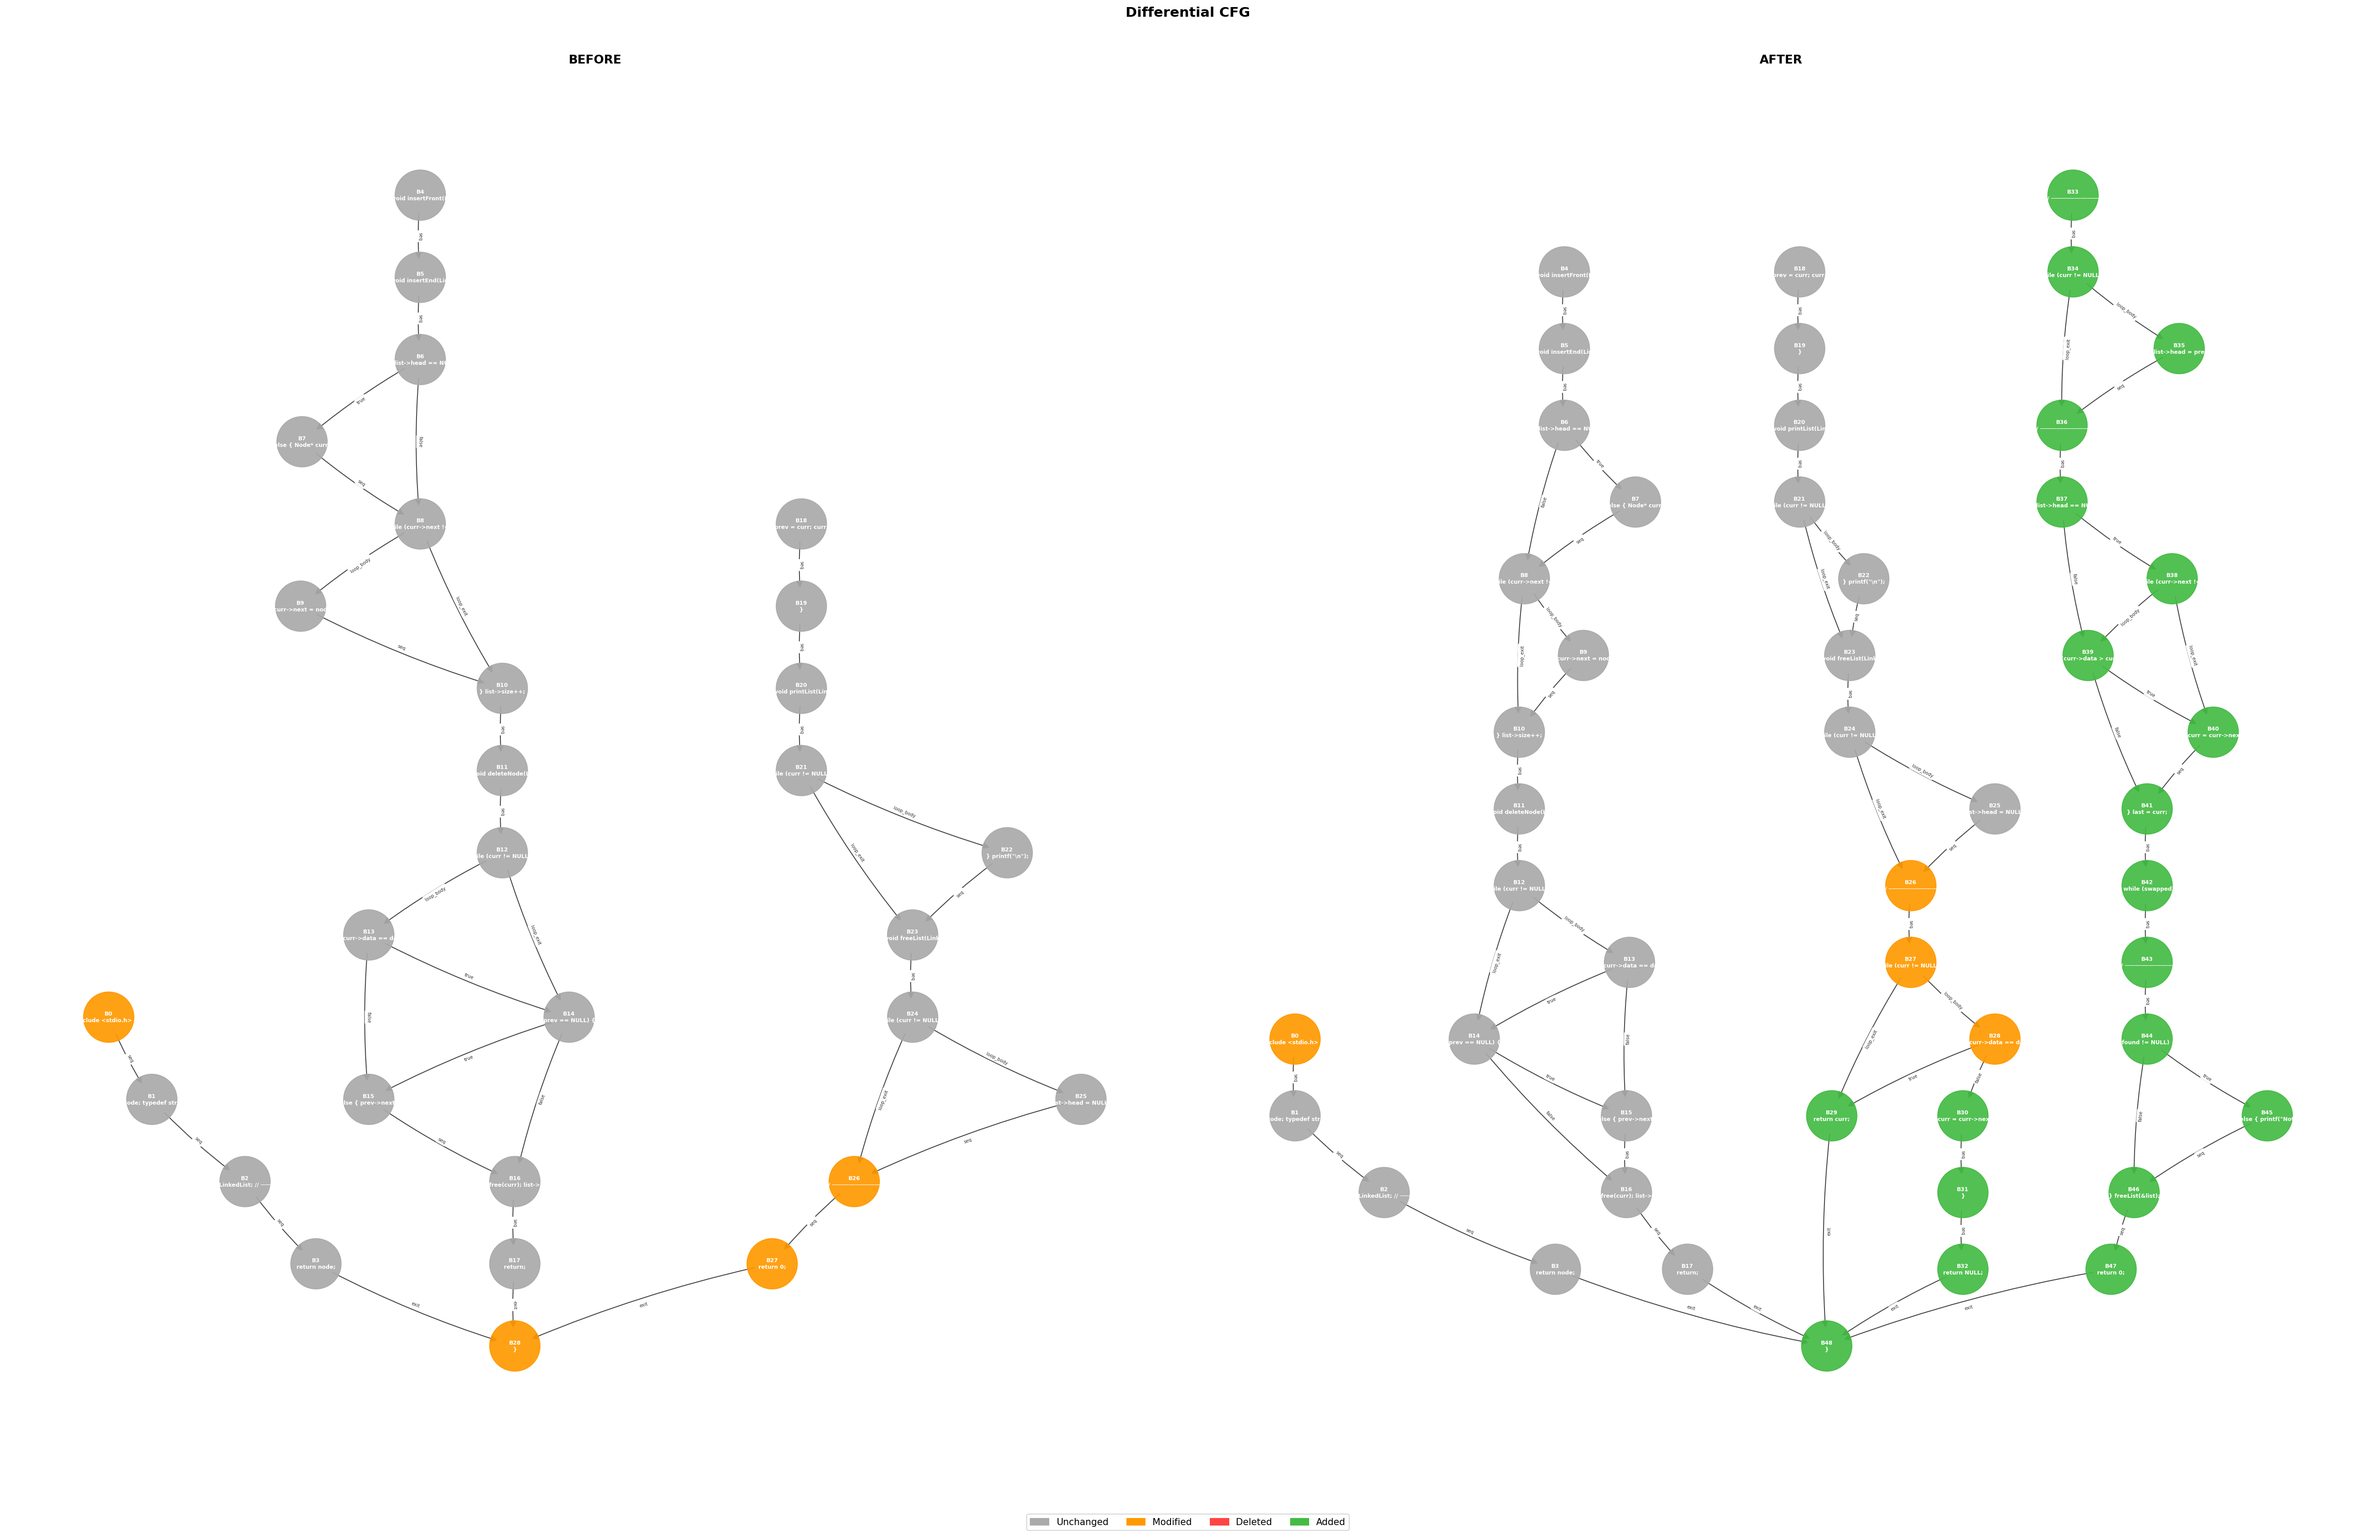
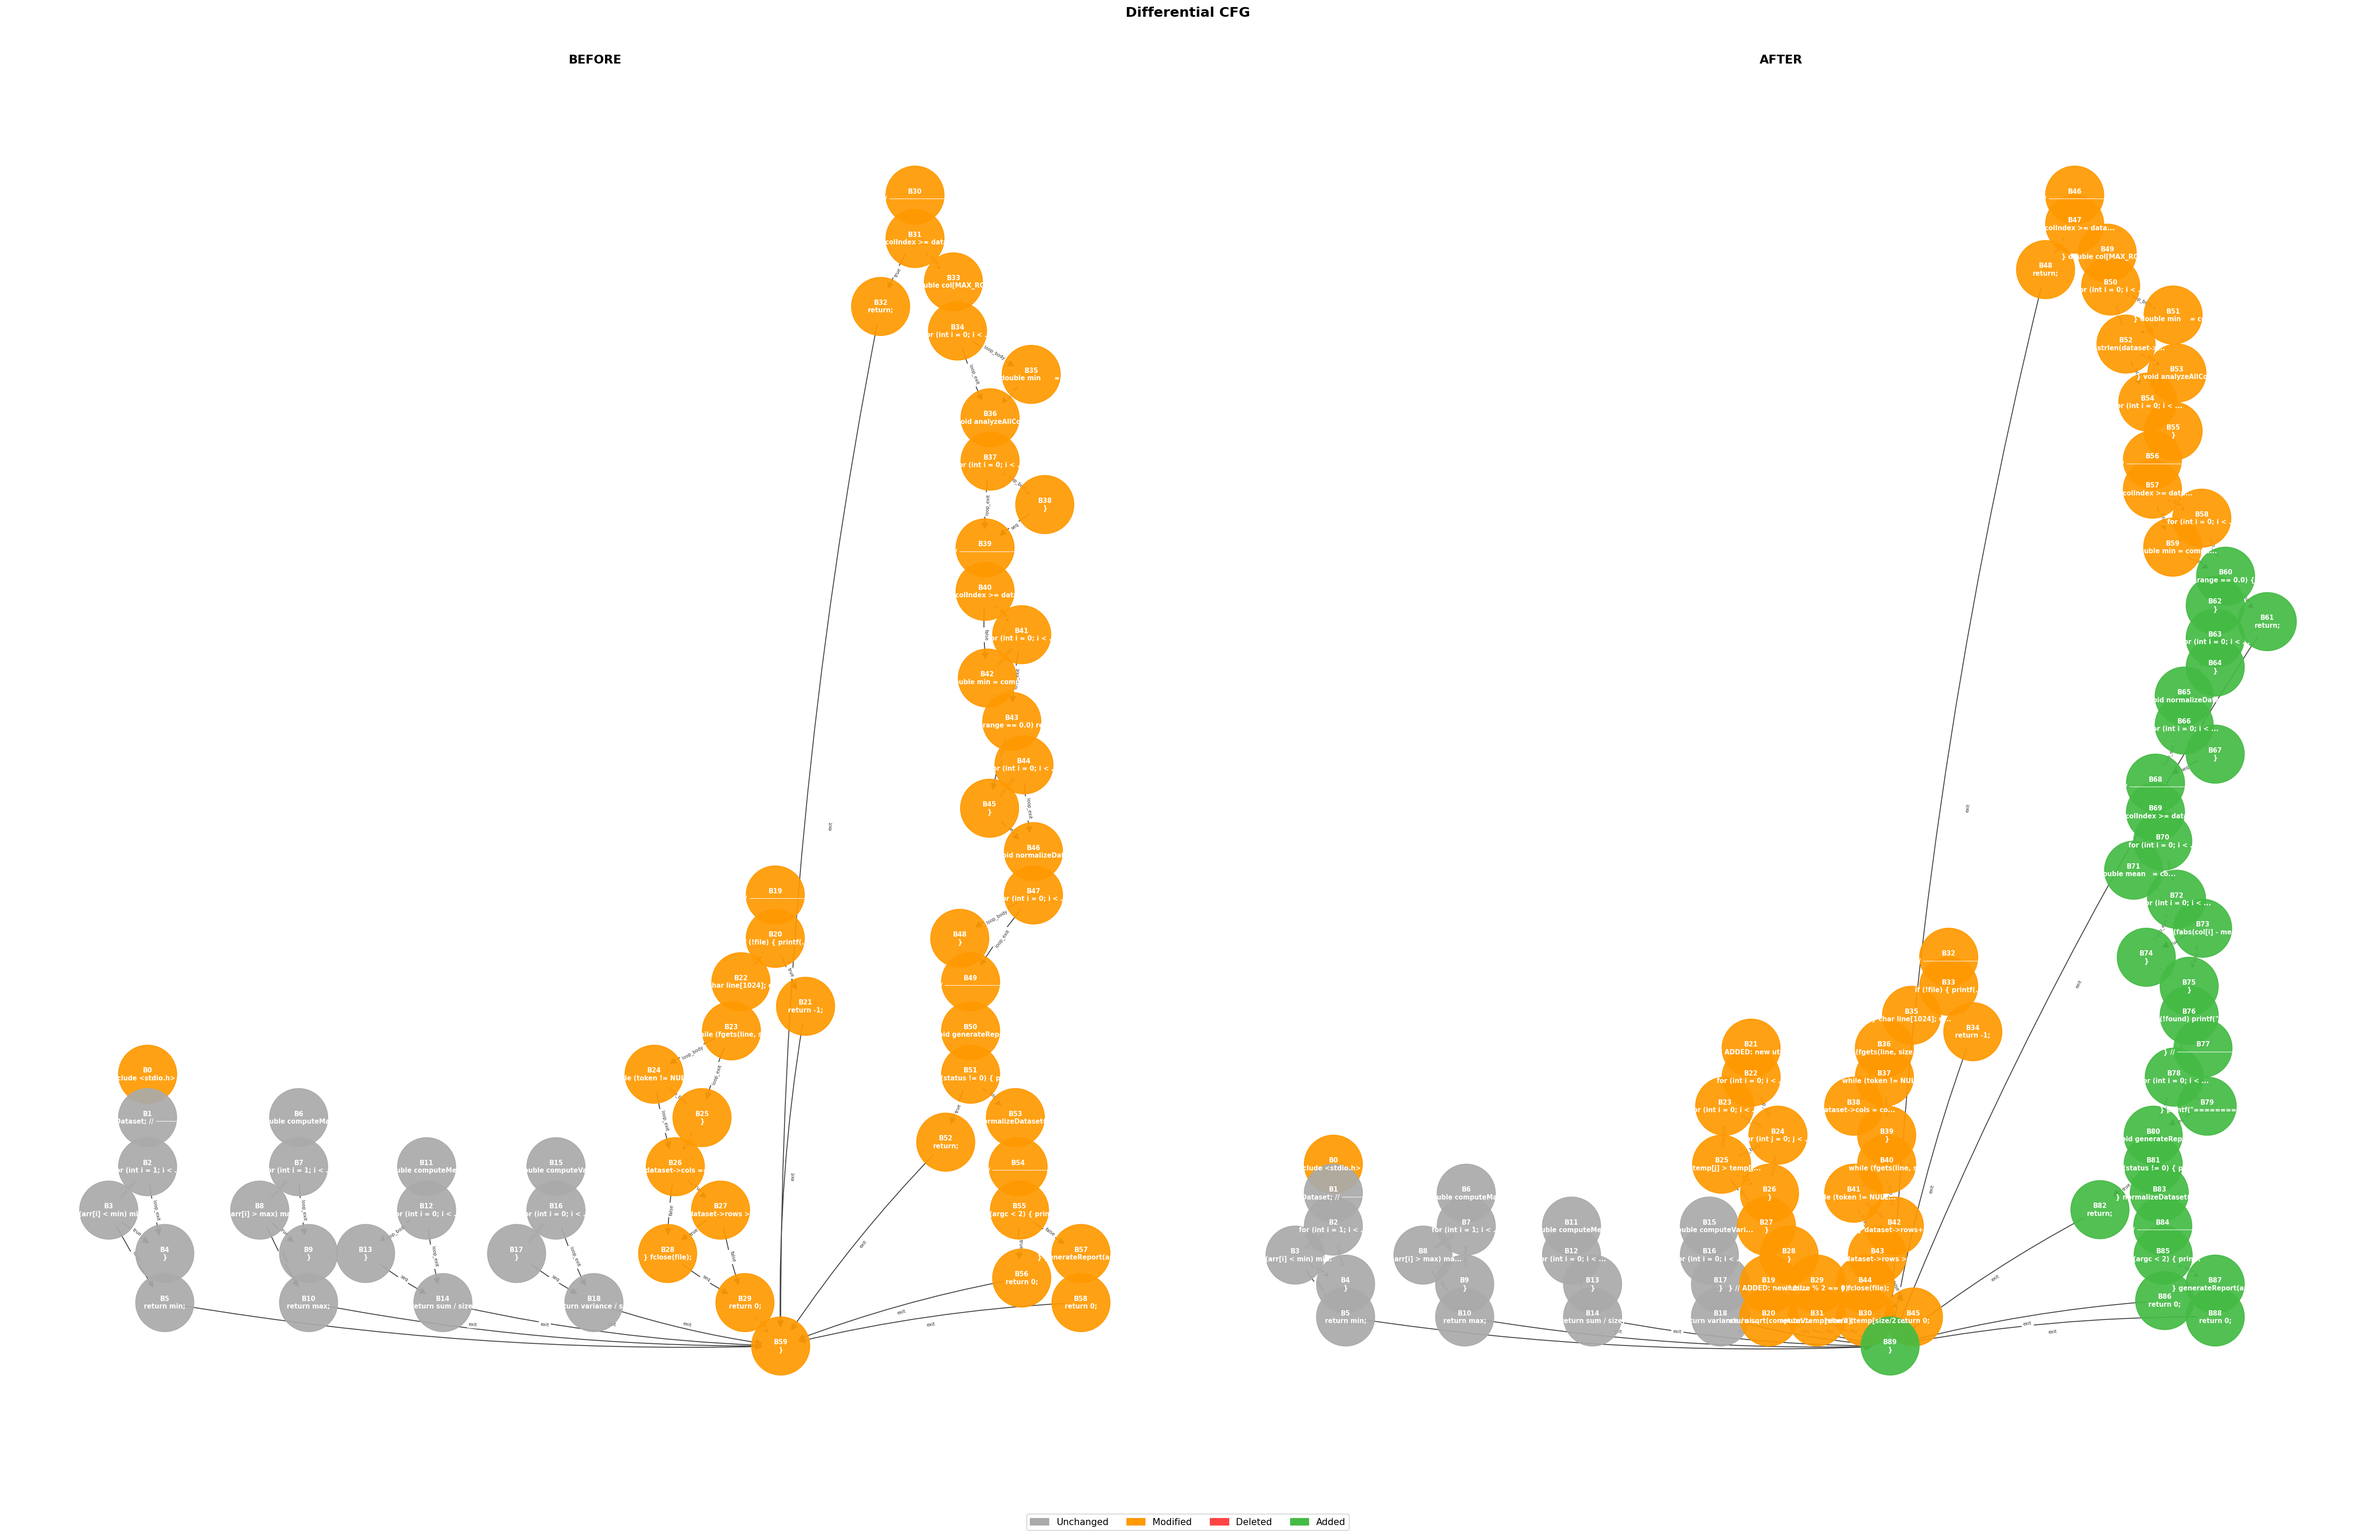
node size fixed

diff --git a/src/tabs/tab_cfg.py b/src/tabs/tab_cfg.py
@@ -181,9 +181,9 @@ def draw_cfg(ax, G, status_map, title):
               for n, d in G.nodes(data=True)}
 
     nx.draw_networkx_nodes(G, pos, ax=ax, node_color=node_colors,
-                           node_size=3000, alpha=0.92)
+                           node_size=4000, alpha=0.92)
     nx.draw_networkx_labels(G, pos, labels=labels, ax=ax,
-                            font_size=6, font_color='white', font_weight='bold')
+                            font_size=7, font_color='white', font_weight='bold')
     nx.draw_networkx_edges(G, pos, ax=ax, arrows=True,
                            arrowsize=15, edge_color='#444444',
                            connectionstyle='arc3,rad=0.05',
@@ -204,6 +204,7 @@ def generate_cfg_image(before_code, after_code, title, output_path):
     diff       = diff_cfgs(cfg_before, cfg_after)
 
     fig, axes = plt.subplots(1, 2, figsize=(36, 22))
+    fig.subplots_adjust(wspace=0.05)  
     fig.suptitle(title, fontsize=15, fontweight='bold', y=1.01)
 
     draw_cfg(axes[0], cfg_before, diff['before_status'], 'BEFORE')
